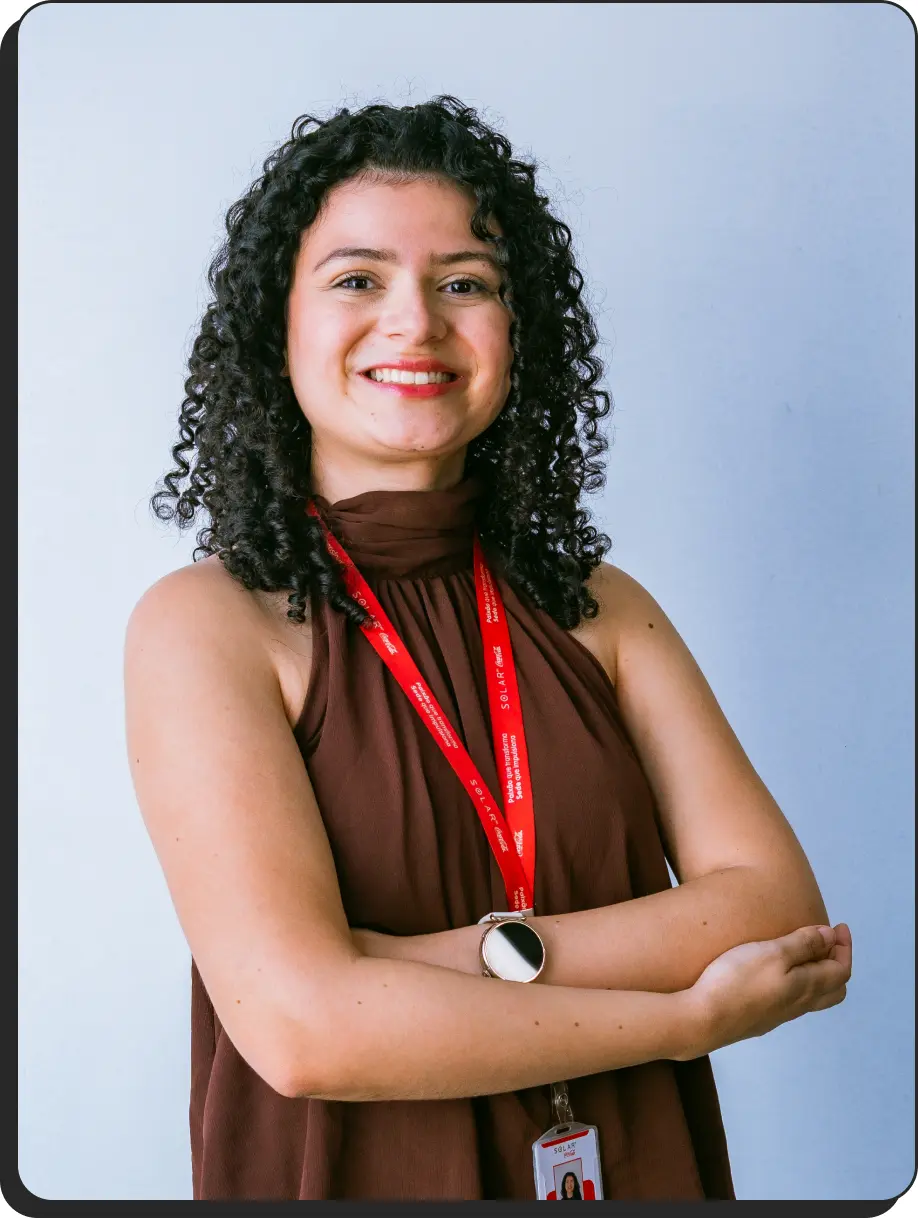
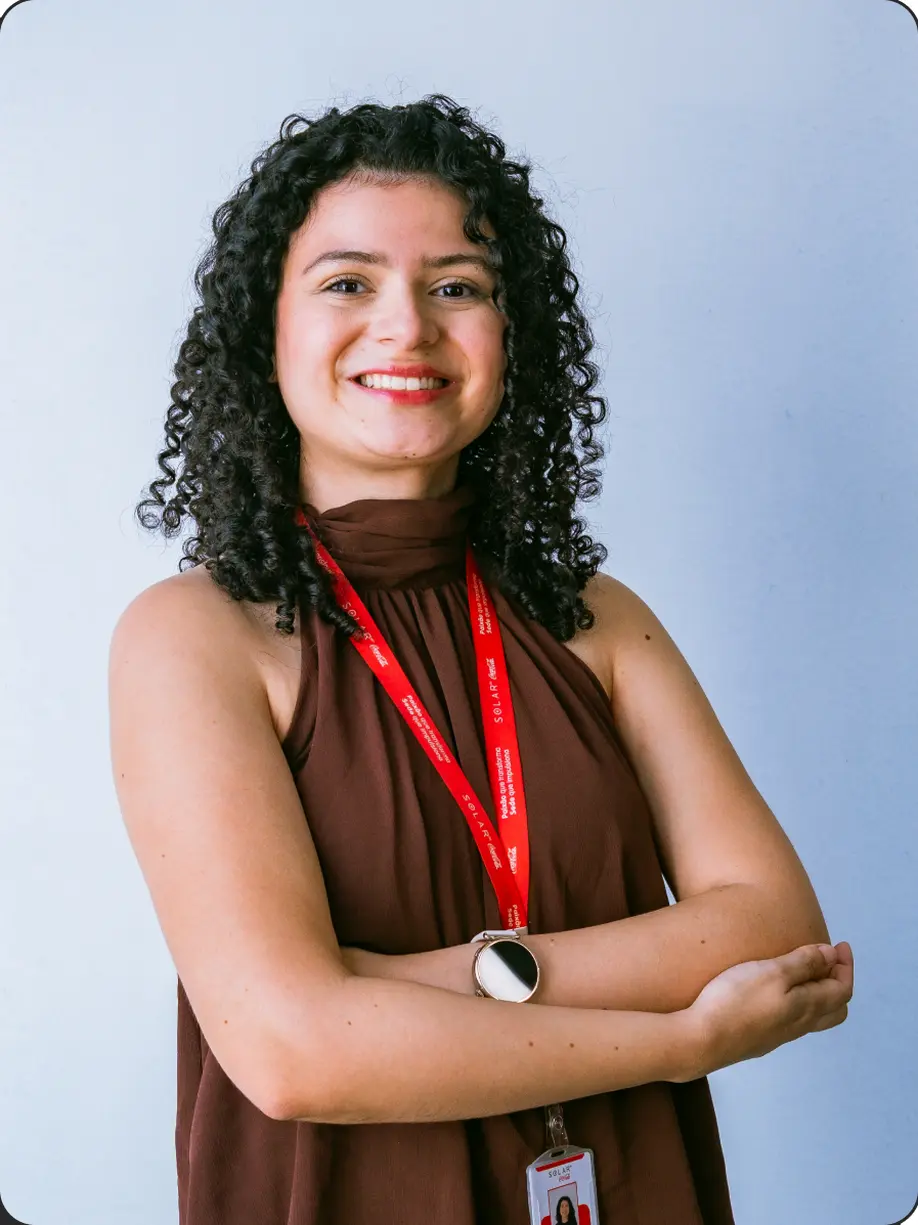
fix: borda dupla nas fotos com moldura
O export do Figma desenha a borda de 1px e a sombra sólida dentro do
arquivo, porque o nó exportado é o frame que carrega os dois. O CSS
aplicava as mesmas por cima.

Afetava os 5 depoimentos, a selfie de Talentos e a foto do Programa —
18px de moldura à esquerda em 3x. Recortada; fica a borda do CSS, que usa
o token e acompanha o card. mesa e as fotos de Sobre não tinham o
problema.

QA-026 no template.

Changed region(s): [[0.0, 0.0, 1.0, 1.0], [0.793, 0.5928, 0.8845, 0.7176], [0.7625, 0.5616, 0.793, 0.5928]]

diff --git a/playbook/09-qa-erros-comuns.md b/playbook/09-qa-erros-comuns.md
@@ -425,4 +425,25 @@ desenho.
 
 ---
 
-> Próximo ID livre: **QA-026**
+## QA-026 — Borda dupla: o export do Figma já traz borda e sombra desenhadas
+
+**Categoria:** Design intake
+**Sintoma:** a foto aparece com duas bordas, ou com uma sombra deslocada da
+outra. Some se você remove a borda do CSS, mas aí ela deixa de escalar junto
+com o card.
+**Causa:** `download_assets` exporta o **nó renderizado**. Se o nó é o frame que
+carrega `border` e `drop-shadow` — e no Figma costuma ser, porque a imagem é
+preenchimento desse frame — os dois vêm desenhados dentro do PNG. Aplicar
+`border` e `shadow` no CSS por cima duplica.
+**Correção:** recortar a moldura assada e deixar a do CSS, que é a do design
+system e acompanha o token. Para borda de 1px e sombra `-5px 5px` num export
+em 3×: cortar 18px à esquerda (sombra 5 + borda 1), 3px em cima e à direita,
+18px embaixo.
+**Como detectar:** comparar o tamanho do export com o do nó. Um nó de 300×400
+que exporta 306×406 em 1× tem 6px de moldura embutida. Ou olhar a cor do pixel
+da borda: `Image.open(f).getpixel((0, altura//2))` devolvendo a cor da borda
+em vez de transparente entrega o problema.
+
+---
+
+> Próximo ID livre: **QA-027**
